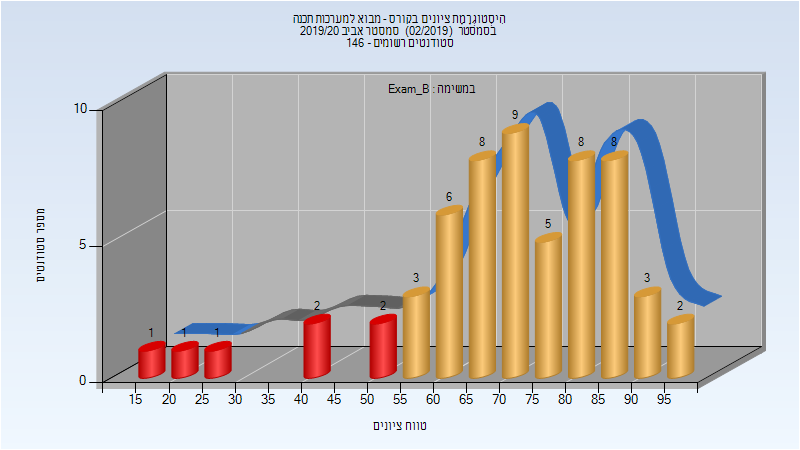
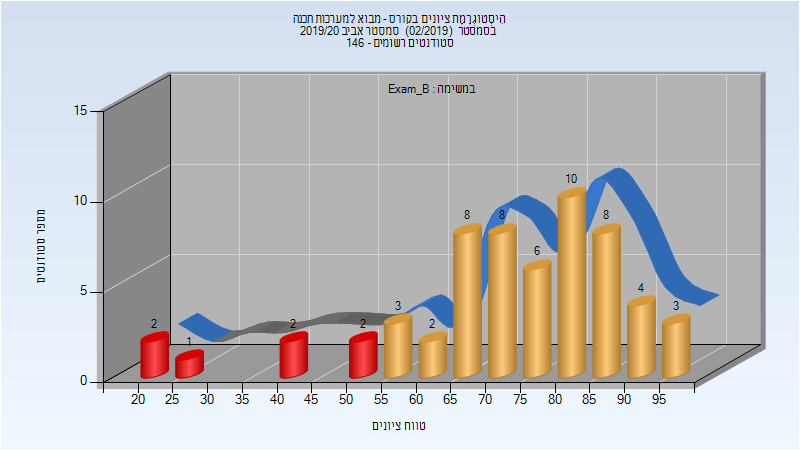
Deploy michael-maltsev/technion-histograms to github.com/michael-maltsev/technion-histograms.git:gh-pages

diff --git a/044101/index.html b/044101/index.html
@@ -1449,10 +1449,10 @@
 <td>59</td>
 <td>52/7</td>
 <td>88</td>
-<td>17</td>
+<td>20</td>
 <td>99</td>
-<td>71.161</td>
-<td>73</td>
+<td>72.822</td>
+<td>75</td>
 </tr>
 </tbody>
 </table>
@@ -1475,10 +1475,10 @@
 <td>59</td>
 <td>54/5</td>
 <td>92</td>
-<td>17</td>
+<td>20</td>
 <td>99</td>
-<td>75.271</td>
-<td>77</td>
+<td>76.525</td>
+<td>80</td>
 </tr>
 </tbody>
 </table>

diff --git a/044101/README.md b/044101/README.md
@@ -449,7 +449,7 @@
 
 | סטודנטים | עברו/נכשלו | אחוז עוברים | ציון מינימלי | ציון מקסימלי | ממוצע | חציון |
 | ---- | ---- | ---- | ---- | ---- | ---- | ---- |
-| 59 | 52/7 | 88 | 17 | 99 | 71.161 | 73 |
+| 59 | 52/7 | 88 | 20 | 99 | 72.822 | 75 |
 
 ### סופי מועד ב'
 
@@ -457,7 +457,7 @@
 
 | סטודנטים | עברו/נכשלו | אחוז עוברים | ציון מינימלי | ציון מקסימלי | ממוצע | חציון |
 | ---- | ---- | ---- | ---- | ---- | ---- | ---- |
-| 59 | 54/5 | 92 | 17 | 99 | 75.271 | 77 |
+| 59 | 54/5 | 92 | 20 | 99 | 76.525 | 80 |
 
 ### סופי
 
